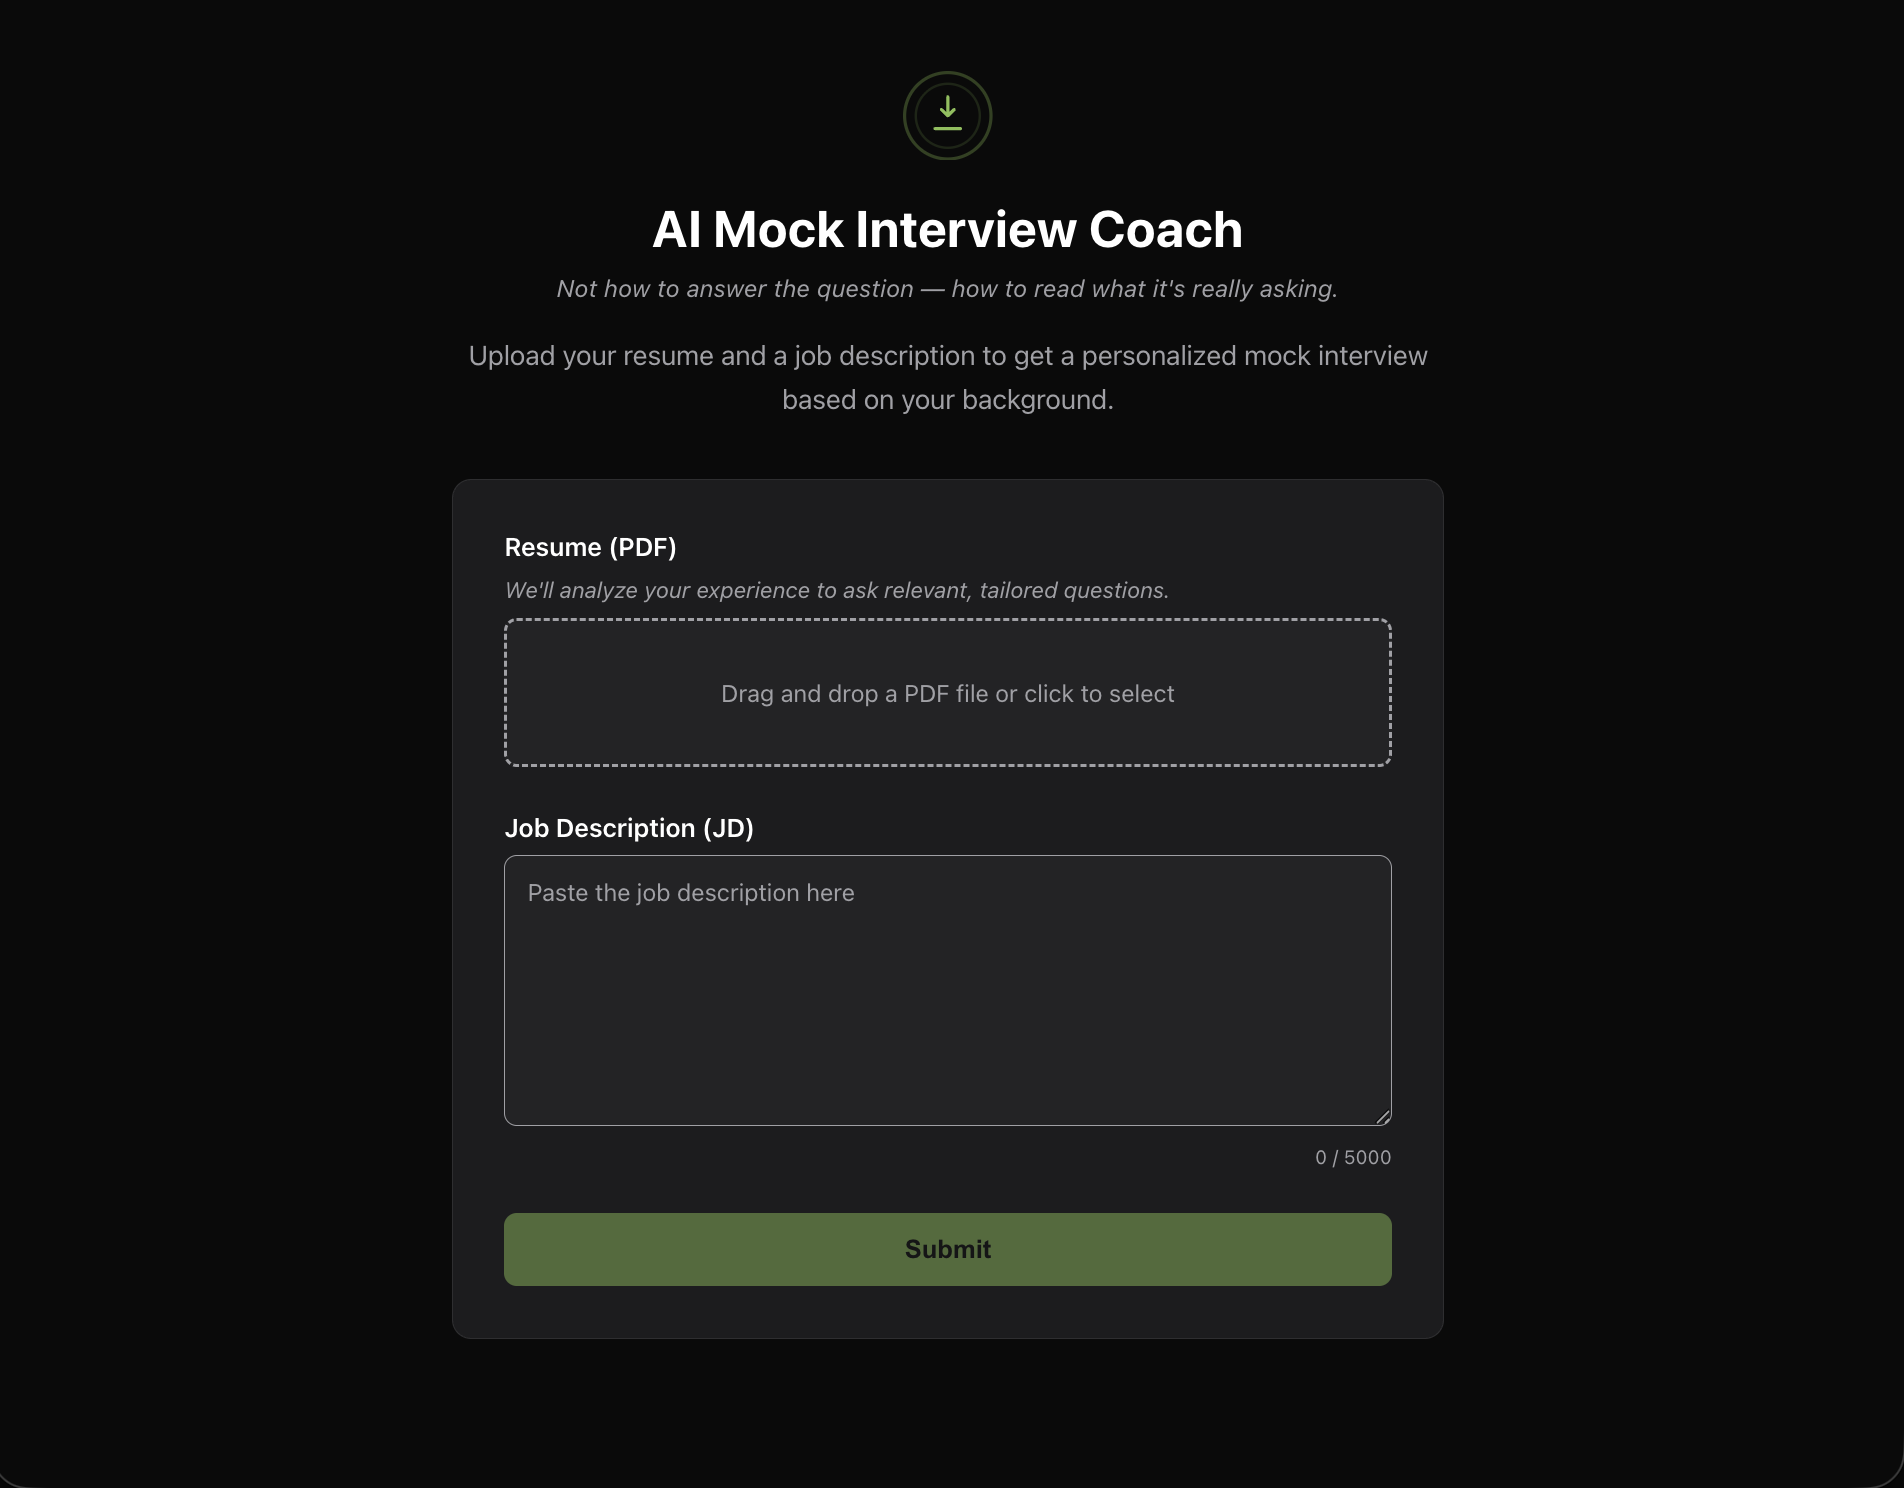
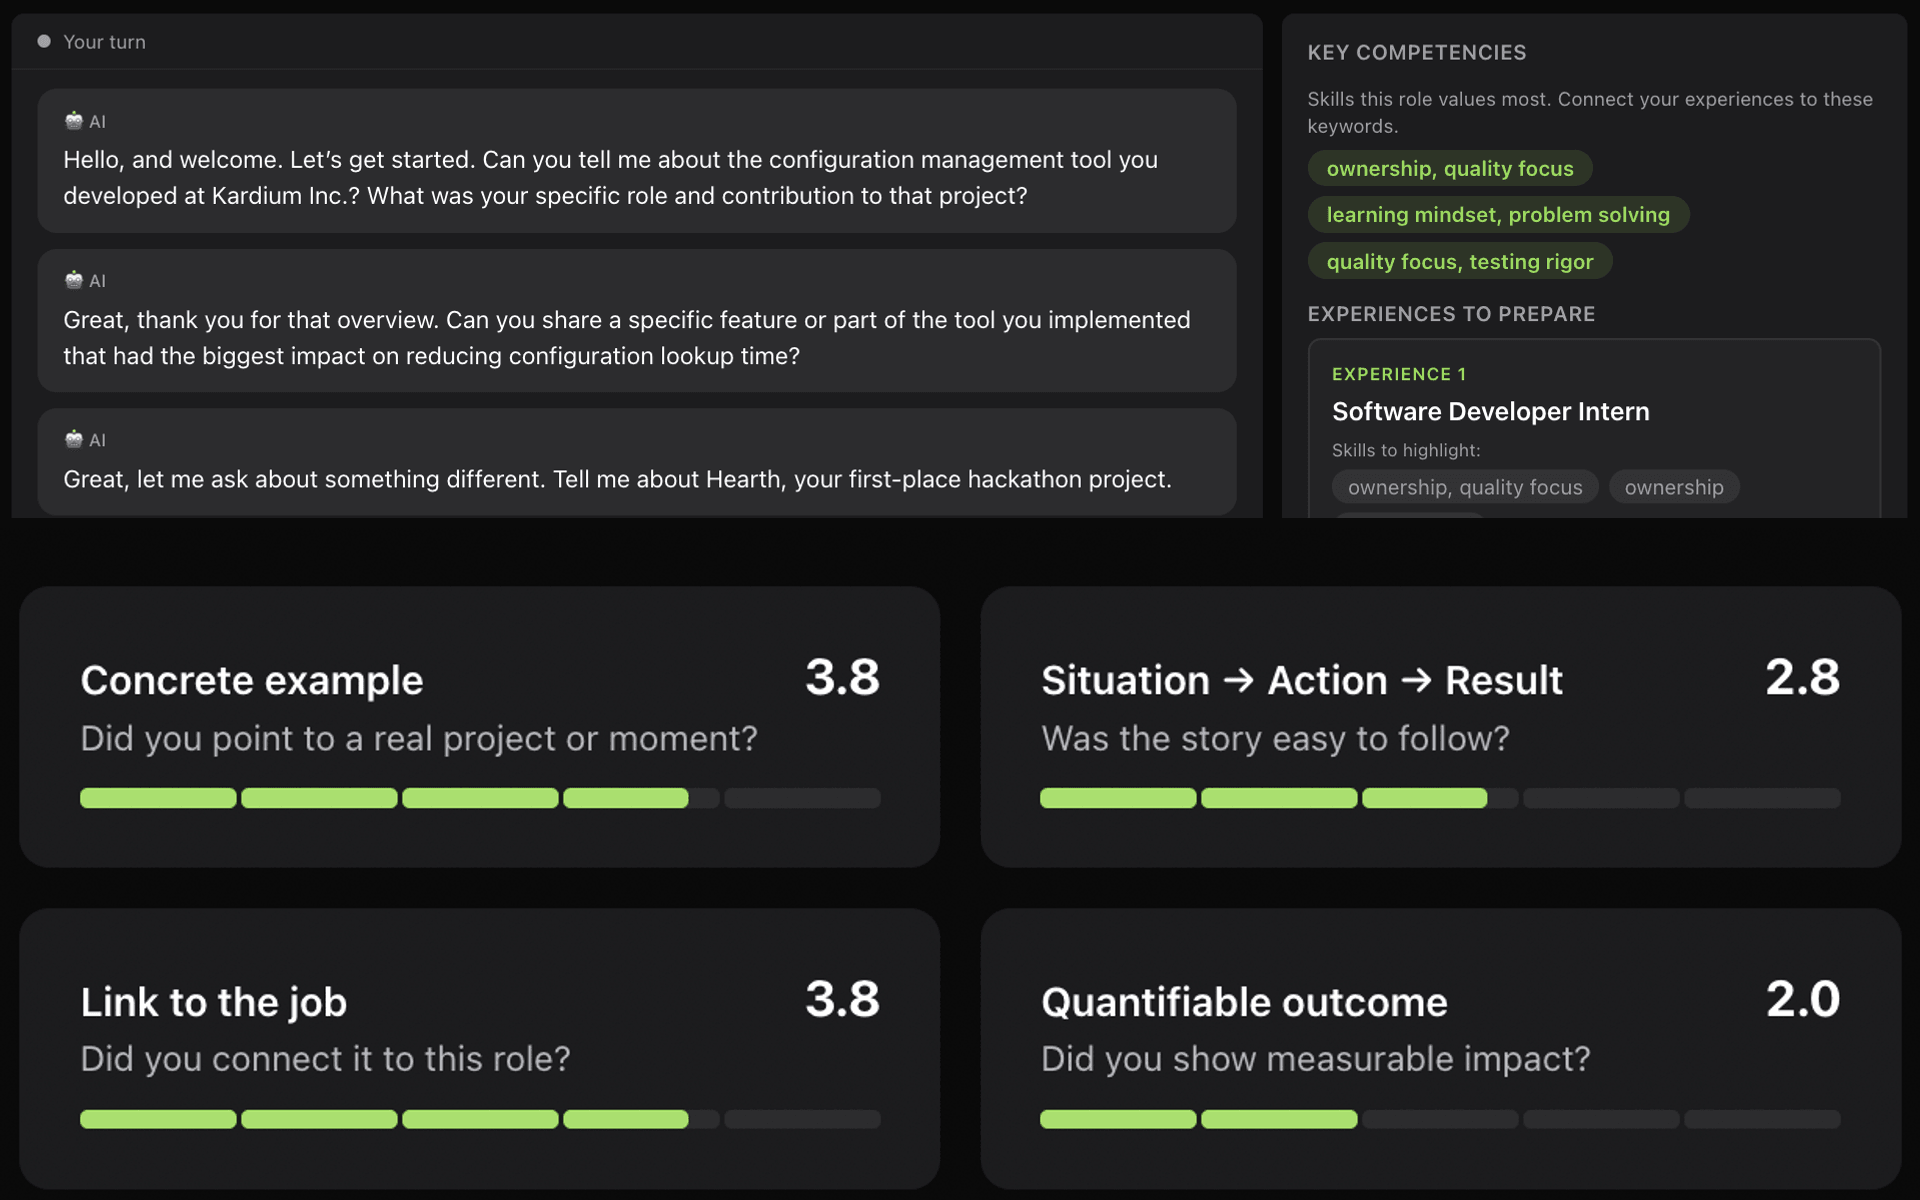
Move project labels into card bodies as flag tags
Labels no longer sit on top of the thumbnails. The featured card gets a
large trophy tag above the copy, and the three grid cards carry theirs in
the meta row, replacing the eyebrow that duplicated the year line.

Also rebuilds the AI Mock Interview Coach cover as a composite of the
practice-mode and feedback-report screens so it fills the 16:10 frame
instead of showing a mostly empty upload form.

diff --git a/src/data/projects.ts b/src/data/projects.ts
@@ -24,7 +24,7 @@ export const projects: Project[] = [
 		slug: "ai-mock-interview-coach",
 		title: "AI Mock Interview Coach",
 		year: "Aug 2026",
-		statusLabel: "1st Place · CIC × AWS Hackathon",
+		statusLabel: "1st Place · UBC CIC × AWS",
 		eyebrow: "Hackathon",
 		meta: "Hackathon · 2026",
 		desc: "Speech-to-speech interview practice powered by Amazon Nova 2 Sonic, built in a team of five. Proposed a three-agent architecture and owned the Evaluator - prompt, schema, and scoring logic - as an AWS Lambda service on Bedrock.",
@@ -67,7 +67,7 @@ export const projects: Project[] = [
 		slug: "football-scouter",
 		title: "AI Football Scout",
 		year: "2026-",
-		statusLabel: "In Progress",
+		statusLabel: "LLM Verification",
 		eyebrow: "Side",
 		meta: "Side · 2026-",
 		desc: "EPL scouting assistant on an Orchestrator-Worker LLM pipeline, with a dual judge layer verifying every number.",
@@ -144,7 +144,7 @@ export const projects: Project[] = [
 		slug: "smart-home-database",
 		title: "Smart Home Database",
 		year: "2026",
-		statusLabel: "Academic",
+		statusLabel: "Injection-safe SQL",
 		eyebrow: "Academic",
 		meta: "Academic · 2026",
 		desc: "3NF-normalized schema of 20+ tables with Node.js/Oracle REST endpoints.",
